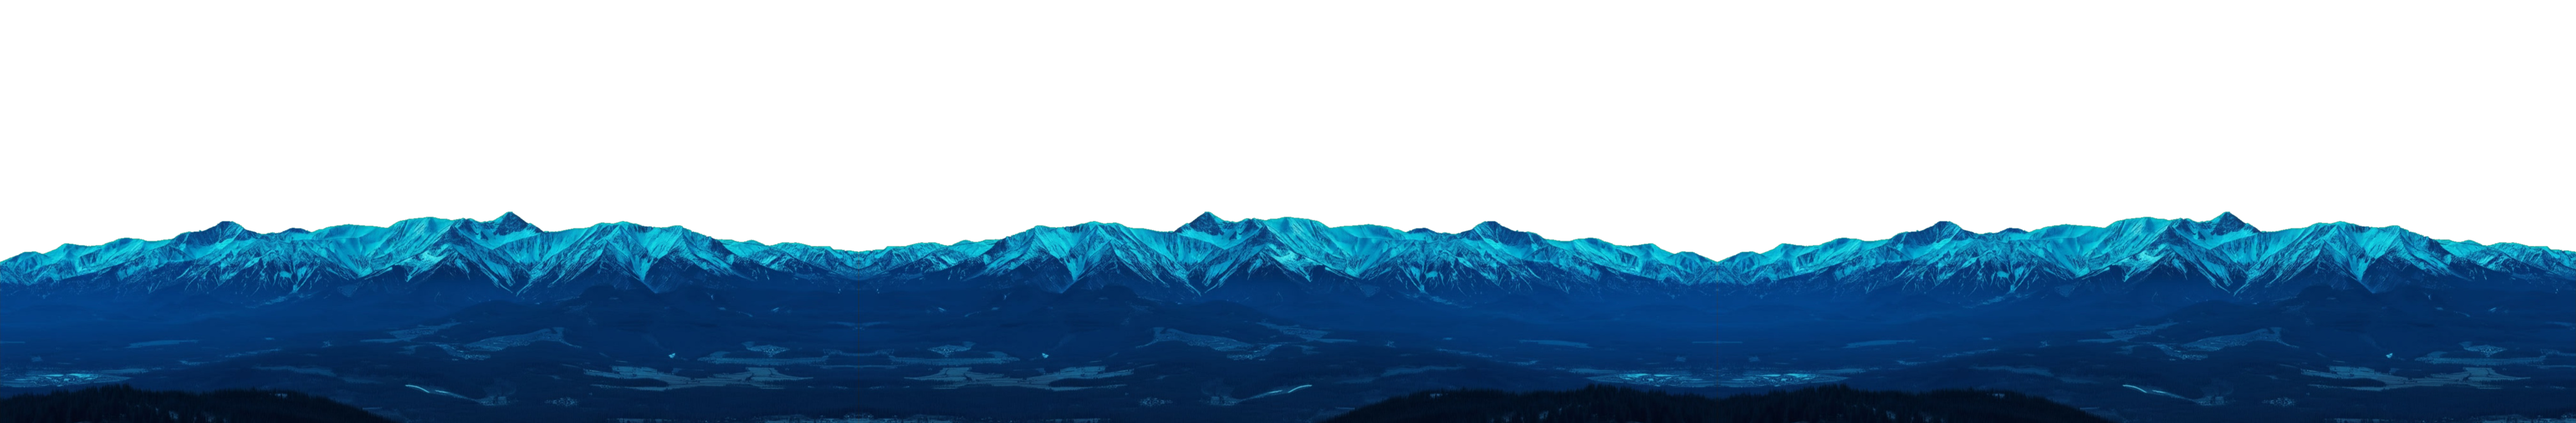
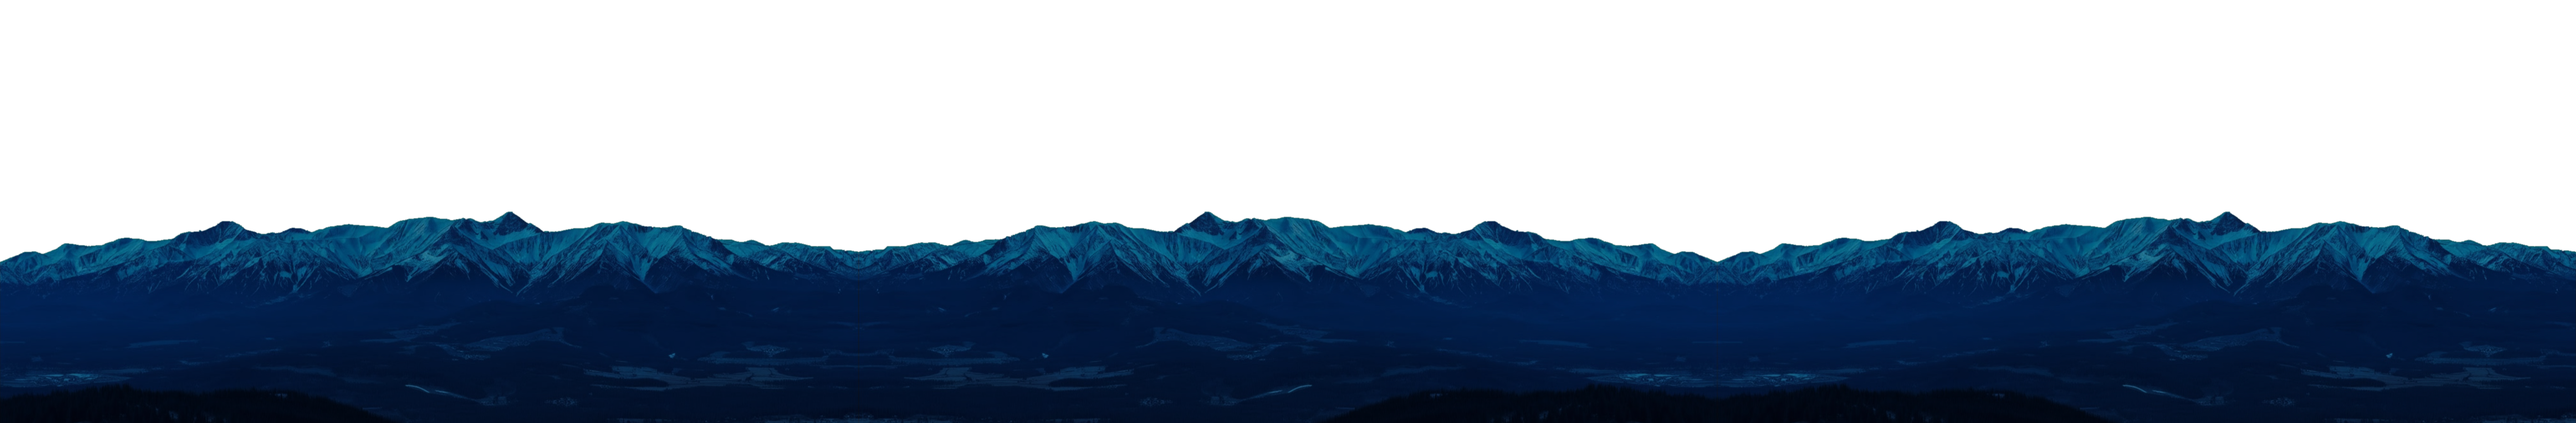
Day Arc: darken night mountains (deep navy, muted moonlit snow) — were too light blue

diff --git a/index.html b/index.html
@@ -4551,7 +4551,7 @@ curtainInit();
 </style>
 <script>window.DAYARC_CONFIG={appendHost:'.header'};</script>
 <link rel="stylesheet" href="dayarc.css?v=20260626213000">
-<script src="dayarc.js?v=20260626225000"></script>
+<script src="dayarc.js?v=20260626231000"></script>
 <script>(function(){ function relocate(){ try{ var c=document.querySelector('.content'); if(!c) return;
   var eb=document.getElementById('app-eyebrow'); if(eb&&eb.parentElement!==c){ eb.classList.add('eyebrow-bottom'); c.appendChild(eb); }
   var tr=document.querySelector('.hdr-trackers'), hd=document.querySelector('.header'); if(tr&&hd&&tr.parentElement!==hd){ hd.appendChild(tr); }

diff --git a/sw.js b/sw.js
@@ -1,7 +1,7 @@
 // sw.js — network-first service worker.
 // Fixes "deploys don't show up": always fetches the latest from the network when
 // online, caches a copy for offline use, and falls back to cache only when offline.
-const CACHE = 'hg-cache-20260626225000';
+const CACHE = 'hg-cache-20260626231000';
 
 self.addEventListener('install', (e) => {
   // take over immediately, don't wait for old SW to release
